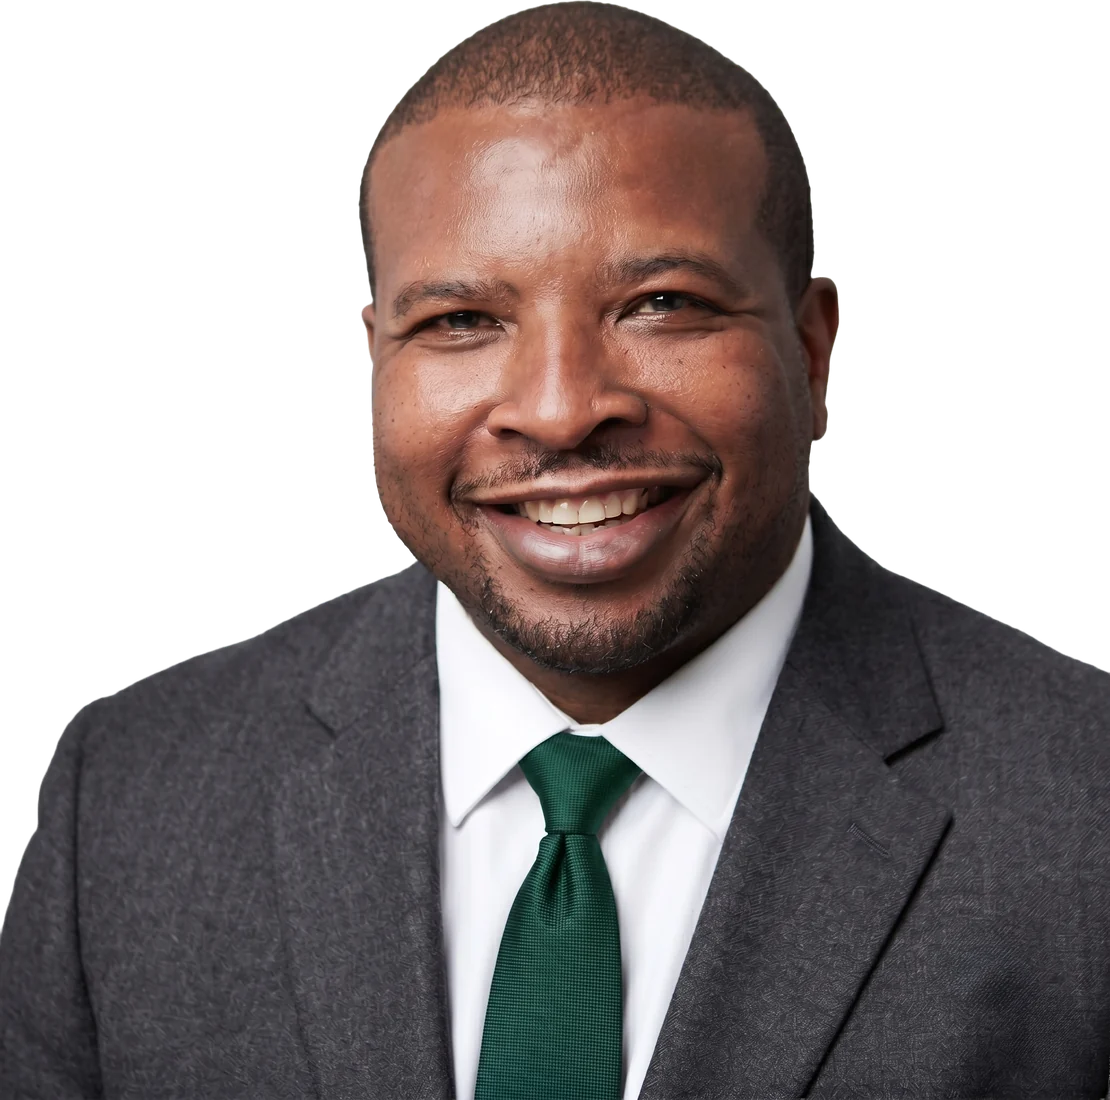
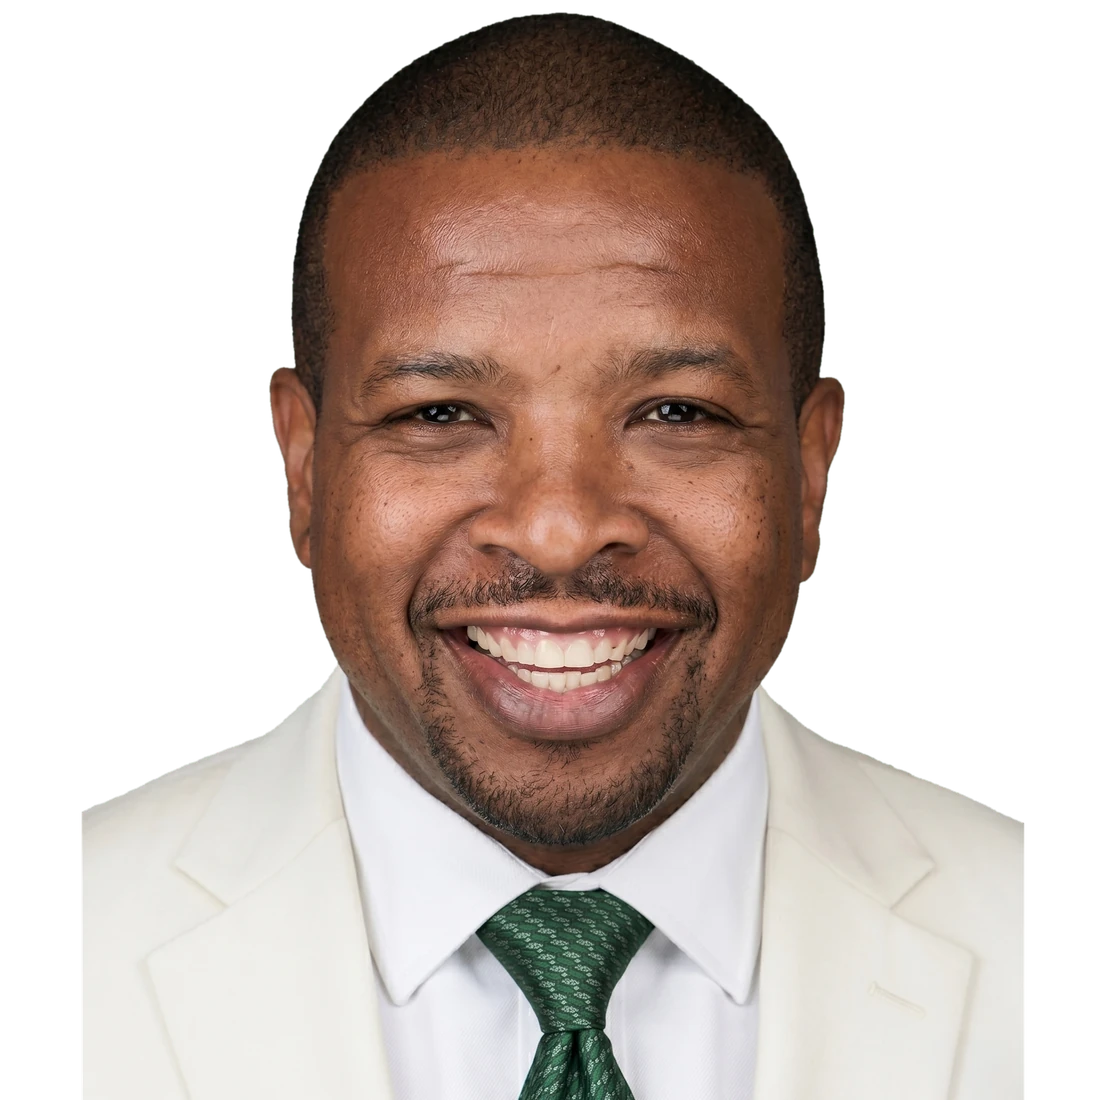
Swap Dr. Williams' headshot, fix the FAQ + floating card, close audit blind spots
Headshot: dr.-Van-1-green.jpg keyed off its green screen via the border-connected
component so his green tie survives, with spill suppression along the matte. The
source is framed tighter than the other cutouts, so the canvas is padded with
transparency to let the framing solver reach the house convention (head 0.456 of
the frame, against 0.36-0.45 for the other five). canaan.webp is shared, so this
lands on /team and /q3-special as well as the webinar page.

Two layout faults, both of which the audit had reported clean:

- The FAQ answers were capped at 72ch and stranded half their row once opened.
  The cap is gone and the list runs two columns above 1000px.
- The floating CTA bar was centred with left:50% + translateX(-50%), but the
  psb-rise entrance animation ends on "transform: none", which wiped out the
  centring translate and shunted it half its width right. It now centres with
  margin-inline:auto and no transform.

The audit missed both because it only measured what was visible at scroll 0 with
accordions shut, and because its prose check only looked at wrappers, never at
body copy itself. It now forces every <details> open, scrolls past the fold,
checks paragraphs directly, and flags off-centre pinned elements. Both checks
were verified against the reintroduced bugs before landing. Widening the prose
check immediately found another live instance on /assets (p.lead at 52ch,
stranding 714px) — fixed with the same two-column head.

diff --git a/src/components/AssetsExplorer.jsx b/src/components/AssetsExplorer.jsx
@@ -132,9 +132,13 @@ export default function AssetsExplorer() {
     <section style={{ maxWidth: 1240, margin: '0 auto', padding: '40px 22px 0' }}>
       {/* Header + KPIs */}
       <div style={{ marginBottom: 28 }}>
-        <span className="eyebrow">Portfolio</span>
-        <h1 style={{ margin: '12px 0 0', fontSize: 'var(--text-4xl)', letterSpacing: '-0.025em', lineHeight: 1.05 }}>The portfolio, in detail.</h1>
-        <p className="lead" style={{ maxWidth: '52ch', margin: '14px 0 0', fontSize: 'var(--text-base)' }}>Every community we hold — filter, compare, and open any asset to see occupancy, thesis, and impact without leaving the page.</p>
+        <div className="asset-head">
+          <div>
+            <span className="eyebrow">Portfolio</span>
+            <h1 style={{ margin: '12px 0 0', fontSize: 'var(--text-4xl)', letterSpacing: '-0.025em', lineHeight: 1.05 }}>The portfolio, in detail.</h1>
+          </div>
+          <p className="lead" style={{ margin: 0, fontSize: 'var(--text-base)' }}>Every community we hold — filter, compare, and open any asset to see occupancy, thesis, and impact without leaving the page.</p>
+        </div>
         <div className="asset-kpis">
           {[['Assets', kpis.count], ['States', kpis.states], ['Total units', kpis.units || '—'], ['Avg occupancy', kpis.avgOcc != null ? kpis.avgOcc + '%' : '—']].map(([l, v]) => (
             <div key={l} className="asset-kpi"><div className="figure" style={{ fontSize: 'var(--text-2xl)', fontWeight: 600 }}>{v}</div><div style={{ fontSize: 'var(--text-xs)', color: 'var(--fg-3)', marginTop: 2 }}>{l}</div></div>
@@ -226,6 +230,13 @@ export default function AssetsExplorer() {
       </div>
 
       <style>{`
+        /* Heading left, lead right, so the row fills instead of stranding the
+           lead in the left half. See rules.md section 6 "Layout". */
+        .asset-head { display: grid; gap: 14px; }
+        @media (min-width: 900px) {
+          .asset-head { grid-template-columns: minmax(0, 1fr) minmax(0, 1fr);
+            gap: clamp(36px, 5vw, 76px); align-items: end; }
+        }
         .asset-kpis { display: flex; gap: 38px; margin-top: 28px; flex-wrap: wrap; }
         .asset-filters { display: flex; gap: 12px; align-items: center; flex-wrap: wrap; margin-bottom: 22px; }
         .asset-search { display: flex; align-items: center; gap: 8px; flex: 1; min-width: 220px; background: var(--surface); border: 1px solid var(--border); border-radius: var(--radius-md); padding: 0 14px; }

diff --git a/src/components/SdiraWebinarPage.jsx b/src/components/SdiraWebinarPage.jsx
@@ -735,7 +735,12 @@ export default function SdiraWebinarPage() {
           text-transform: uppercase; color: var(--fg-3); margin-top: 6px; line-height: 1.35; }
 
         /* ---- faq ---- */
+        /* Two columns on wide screens so an open answer fills its item instead of
+           trailing off across a 1200px row. */
         .sd-faq { display: grid; gap: 10px; }
+        @media (min-width: 1000px) {
+          .sd-faq { grid-template-columns: repeat(2, minmax(0, 1fr)); gap: 12px; align-items: start; }
+        }
         .sd-faq-item { background: var(--surface); border: 1px solid var(--border);
           border-radius: var(--radius-lg); padding: 4px 22px; }
         .sd-faq-item summary { display: flex; align-items: center; justify-content: space-between; gap: 16px;
@@ -743,7 +748,7 @@ export default function SdiraWebinarPage() {
         .sd-faq-item summary::-webkit-details-marker { display: none; }
         .sd-faq-item summary svg { flex: none; color: var(--fg-3); transition: transform var(--dur-base) var(--ease-out); }
         .sd-faq-item[open] summary svg { transform: rotate(180deg); }
-        .sd-faq-item p { margin: 0 0 20px; font-size: var(--text-sm); color: var(--fg-2); line-height: 1.72; max-width: 72ch; }
+        .sd-faq-item p { margin: 0 0 20px; font-size: var(--text-sm); color: var(--fg-2); line-height: 1.72; }
 
         /* ---- final ---- */
         .sd-final { position: relative; overflow: hidden; border-radius: var(--radius-2xl); text-align: center;
@@ -758,7 +763,11 @@ export default function SdiraWebinarPage() {
         .sd-disc { margin: 34px auto 0; max-width: 82ch; color: rgba(234,243,226,0.5); font-size: 11px; line-height: 1.65; }
 
         /* ---- sticky bar ---- */
-        .sd-sticky { position: fixed; left: 50%; transform: translateX(-50%); bottom: 20px; z-index: 60;
+        /* Centred with auto inline margins, NOT left:50% + translateX(-50%):
+           the psb-rise entrance animation ends on "transform: none", which would
+           wipe out a centring translate and shunt the bar half its width right. */
+        .sd-sticky { position: fixed; left: 0; right: 0; margin-inline: auto; width: fit-content;
+          bottom: 20px; z-index: 60;
           display: flex; align-items: center; gap: 20px; padding: 12px 12px 12px 22px;
           border-radius: var(--radius-pill); animation: psb-rise var(--dur-slow) var(--ease-out) both; }
         .sd-sticky-txt { display: flex; flex-direction: column; line-height: 1.25; }

diff --git a/rules.md b/rules.md
@@ -120,6 +120,10 @@ platform used for the AlphaMaven campaign.
   anchor links scroll on the home page and fall back to `/#id` off-page via `go()`). A link is
   marked current for its own path *and* its sub-paths, so `/events/<slug>` keeps *Events* lit.
   The pill now carries nine links, so `responsive.css` collapses it to the burger at **1180px**.
+- **Never put a backtick inside a component's `<style>{` … `}</style>` block** — not even in a
+  CSS comment. It closes the template literal and the build dies with a misleading
+  `Expected "}" but found …`. Use plain quotes when quoting a CSS property in a comment. (This
+  has cost two debugging cycles; the error never points at the comment.)
 - **Layout: a page must fill its container at every width.** This has now broken twice, so it
   is a hard rule:
   1. One container width per page — **1240px, centred** (`max-width: 1240px; margin: 0 auto`).
@@ -138,6 +142,15 @@ platform used for the AlphaMaven campaign.
      A bare `max-width` on a block element does **not** centre it — it pins it left and leaves a
      dead gutter on the right that grows with the viewport. On a 1440px laptop that reads as a
      wide margin; on a 2560px monitor it reads as a broken page.
+  5. **The rule applies to content that is collapsed or off-screen too.** An accordion answer is
+     laid out only once open, so a `max-width` there is invisible until a user clicks — the FAQ
+     answers shipped stranded for exactly this reason. The audit now forces every `<details>`
+     open and scrolls past the fold before measuring; don't reason your way around it.
+  6. **Never centre a pinned element with `left: 50%` + `translateX(-50%)` if it also has an
+     entrance animation.** `psb-rise` (and any keyframe ending on `transform: none`) wipes out
+     the centring translate, and the element jumps right by half its width once the animation
+     settles. Use `left: 0; right: 0; margin-inline: auto; width: fit-content` instead — no
+     transform to clobber.
   Verify with **`npm run audit:layout`** (see section 9) — do not eyeball it at one width, and do
   not reason about whether a gap "looks deliberate". Measure it.
 - **Events:** `src/data/events.js` is the single source of truth for `/events` and every event
@@ -253,10 +266,16 @@ For print-ready collateral (flyers, one-pagers) built to match the site:
   - **horizontal overflow** (the page scrolls sideways),
   - **stranded boxes** — a normal-flow block that paints a box, is capped narrower than its
     container, and is not centred (see the Layout rule in section 6), and
-  - **stranded text** — a prose block abandoning more than a third of its row. This is the check
+  - **stranded text** — a prose block abandoning more than a quarter of its row. This is the check
     that catches the "half-column" look; it found a live instance on `/verified` the day it was
     written. It reports the selector, its `max-width`, and its margins, so the fix is usually
-    one line (or wrapping the head into two columns).
+    one line (or wrapping the head into two columns), and
+  - **off-centre pinned elements** — a fixed/sticky bar that means to be centred but is not,
+    which is what an animation ending on `transform: none` does to `translateX(-50%)`.
+
+  Before measuring it forces every `<details>` open and scrolls past the fold, so collapsed
+  accordions and scroll-triggered bars cannot hide from it. Both of those were real blind spots:
+  the FAQ answers and the sticky CTA bar each shipped broken while the audit reported clean.
   Zero deps (Node's built-in `fetch` + `WebSocket`); it starts and cleans up its own Chrome.
   Grid/flex children and inline elements are deliberately exempt — they are sized by their
   container, not their own margins. Unit tests cannot catch this class of bug; only a browser can.

diff --git a/SUMMARY.md b/SUMMARY.md
@@ -116,6 +116,14 @@ or on the evergreen invest pages - shared chrome renders on every page and must 
   the same bug on `/verified` (`.vf-section-head`, capped at 60ch, stranding 573px); fixed there
   too. The old guidance in `rules.md` — "only raw text is capped… text stopping early looks
   intentional" — was wrong and has been rewritten.
+- **Two audit blind spots closed.** The FAQ answers (`max-width: 72ch`) and the sticky CTA bar
+  both shipped broken while the audit reported clean, because it only measured what was visible
+  at scroll 0 with accordions shut. It now forces every `<details>` open and scrolls past the
+  fold before probing, and gained an **off-centre pinned element** check. The sticky bar's cause
+  is worth remembering: it was centred with `left: 50%` + `translateX(-50%)`, and the `psb-rise`
+  entrance animation ends on `transform: none`, which wiped out the centring translate and
+  shunted the bar half its width right. It now centres with `margin-inline: auto` and no
+  transform. The FAQ runs as two columns above 1000px so an open answer fills its item.
 
 **July 2026**
 - **Design system synced to Claude Design** (`claude.ai/design`) so its design agent builds new
